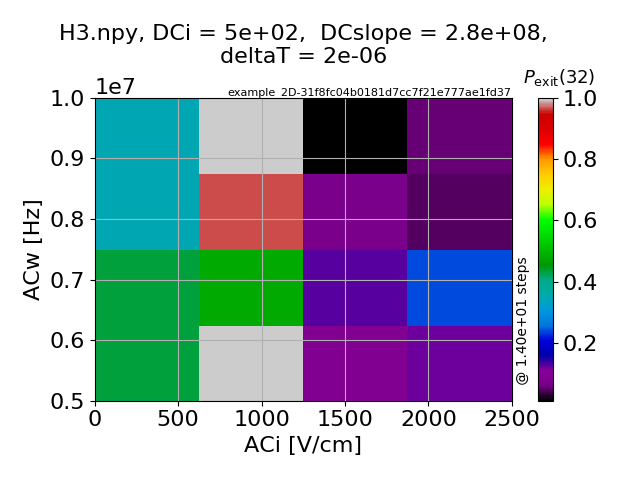
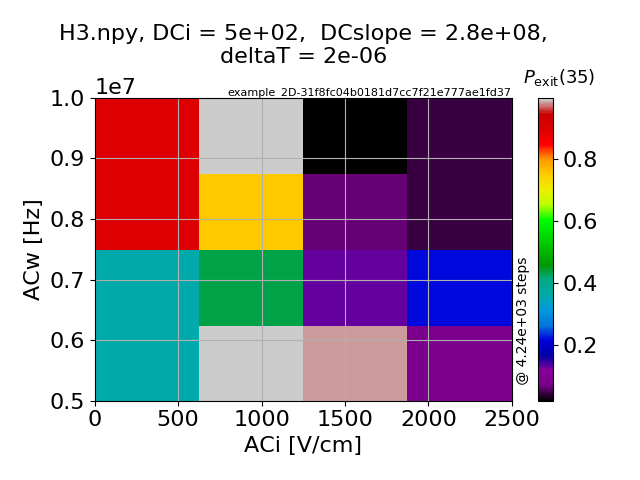
plot correct number of steps

diff --git a/src/main.py b/src/main.py
@@ -251,7 +251,7 @@ def plot(run_dir, options_fname, vmin=None, vmax=None, state_idx_2D=0):
     results_md5 = hashlib.md5(open(run_dir+"/options/"+options_fname,'rb').read()).hexdigest()
     data = np.loadtxt(run_dir+"/results/"+options_fname[:-5]+"-"+results_md5+".txt")
     idx_orig, idx_file = np.unique(data[:,0].astype(int), return_index=True)
-    num_timesteps = data[:,-2][idx_file]
+    num_timesteps = data[:,3][idx_file]
 
     # display missing results as np.nan
     num1 = option_dict["scan_range"]["num"]
